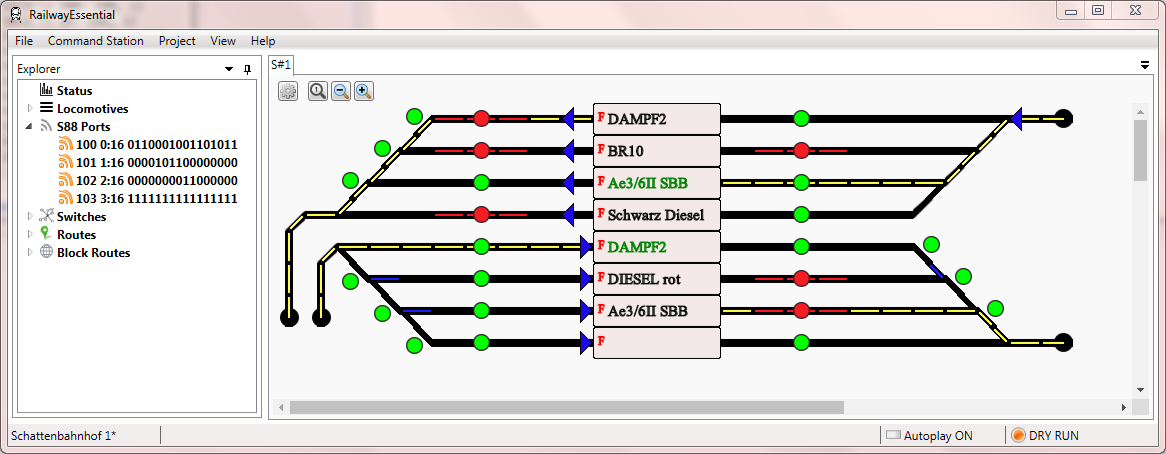
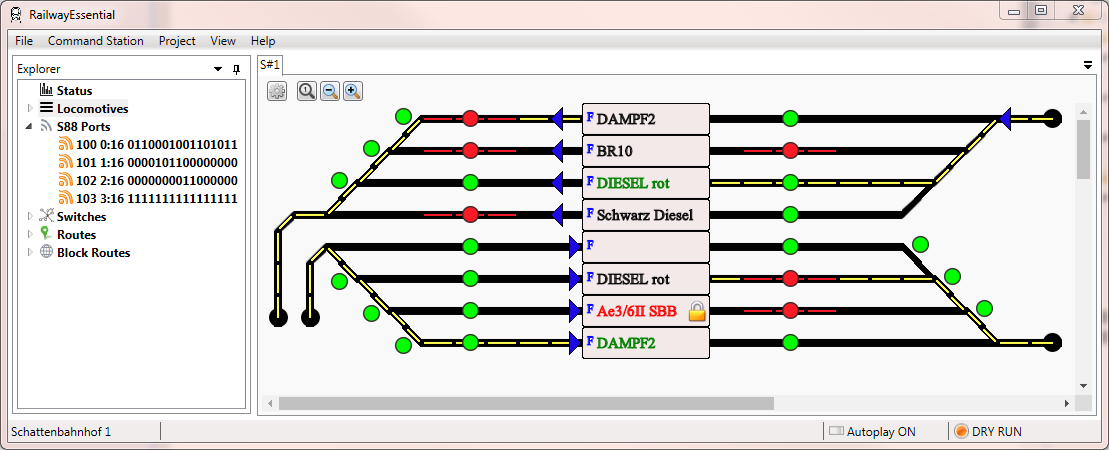
provide lock/unlock of locomotives which are not routed during autoroute

Changed region(s): [[0.0, 0.0, 1.0, 0.9956]]

diff --git a/RailwayEssentialWeb/Resources/Webeditor/js/railwayessential.js b/RailwayEssentialWeb/Resources/Webeditor/js/railwayessential.js
@@ -22,7 +22,6 @@
  * SOFTWARE.
  */
 var TESTDATA = false;
-
 var isEdit = false;
 
 const ModeAddMove = 0;
@@ -84,6 +83,26 @@ function changeLocnameMarkerPreview(col, row, locname) {
     } catch (ex) { }
 }
 
+function changeLocnameMarkerLock(col, row, lock) {
+    try {
+        var id = getIdOfLocanameLbl(col, row);
+        var el = $('#' + id)[0];
+        if (lock) {
+            el.setAttribute('stroke', 'red');
+            el.setAttribute('fill', 'red');
+            //    el.setAttribute('style', 'font-style: italic; text-decoration: line-through;');			
+            var img = el.parentElement.querySelectorAll('image')[1];
+            img.setAttributeNS(null, 'visibility', 'visible');
+        } else {
+            //    el.setAttribute('stroke', 'black');
+            //    el.setAttribute('fill', 'black');
+            //    el.setAttribute('style', '');
+            var img = el.parentElement.querySelectorAll('image')[1];
+            img.setAttributeNS(null, 'visibility', 'hidden');
+        }
+    } catch (ex) { }
+}
+
 function changeItemIdMarker(col, row, idname) {
     try {
         var id = getIdOfItemNameLbl(col, row);
@@ -107,8 +126,8 @@ function appendBlockText(col, row, esvg, themeId) {
         el.setAttribute('x', 5);
         el.setAttribute('y', 18);
         el.setAttribute('font-size', '12px');
-        el.setAttribute('stroke', 'red');
-        el.setAttribute('fill', 'red');
+        el.setAttribute('stroke', 'blue');
+        el.setAttribute('fill', 'blue');
         el.innerHTML = '.';
         esvg.append(el);
         changeDirectionMarker(col, row, 2);
@@ -121,6 +140,15 @@ function appendBlockText(col, row, esvg, themeId) {
         el.setAttribute('stroke', 'black');
         el.setAttribute('fill', 'black');
         el.innerHTML = '.';
+        esvg.append(el);
+
+        el = document.createElementNS('http://www.w3.org/2000/svg', 'image');
+        el.setAttributeNS(null, 'height', '22');
+        el.setAttributeNS(null, 'width', '22');
+        el.setAttributeNS('http://www.w3.org/1999/xlink', 'href', 'images/lock.png');
+        el.setAttributeNS(null, 'x', '104');
+        el.setAttributeNS(null, 'y', '5');
+        el.setAttributeNS(null, 'visibility', 'hidden');
         esvg.append(el);
     }
 
@@ -155,6 +183,11 @@ function appendBlockText(col, row, esvg, themeId) {
     changeLocnameMarker(col, row, ' ');
     changeItemIdMarker(col, row, ' ');
     //}
+
+    if (TESTDATA) {
+        changeLocnameMarker(col, row, 'BR 10');
+        changeLocnameMarkerLock(col, row, true);
+    }
 }
 
 function preloadSvgsLoaded() {
@@ -457,38 +490,38 @@ function simulateClick(col, row, themeid, symbol, orientation, response) {
         var svgChild = newChild.find("svg");
         appendBlockText(col, row, svgChild, themeid);
 
-        newChild.mousedown(function(evt) {
+        newChild.mousedown(function (evt) {
 
             if (isEdit) {
                 switch (evt.which) {
-                case 2: // middle button
-                    break;
-                case 3: // right button
-                    rotateElement(col, row, $(this));
-                    return;
+                    case 2: // middle button
+                        break;
+                    case 3: // right button
+                        rotateElement(col, row, $(this));
+                        return;
                 }
             }
 
             switch (editMode) {
-            case ModeRotate:
-                if (isEdit) {
-                    rotateElement(col, row, $(this));
-                }
-                break;
+                case ModeRotate:
+                    if (isEdit) {
+                        rotateElement(col, row, $(this));
+                    }
+                    break;
 
-            case ModeRemove:
-                if (isEdit) {
-                    $(this).remove();
-                    resetSelection();
-                    rebuildTable();
-                }
-                break;
+                case ModeRemove:
+                    if (isEdit) {
+                        $(this).remove();
+                        resetSelection();
+                        rebuildTable();
+                    }
+                    break;
 
-            case ModeObject:
-                if (isEdit) {
-                    selectElement(col, row, $(this));
-                }
-                break;
+                case ModeObject:
+                    if (isEdit) {
+                        selectElement(col, row, $(this));
+                    }
+                    break;
             }
         });
 
@@ -654,11 +687,11 @@ $(document).ready(function (e) {
 
                         if (isEdit) {
                             switch (evt.which) {
-                            case 2: // middle button
-                                break;
-                            case 3: // right button
-                                rotateElement(col, row, $(this));
-                                return;
+                                case 2: // middle button
+                                    break;
+                                case 3: // right button
+                                    rotateElement(col, row, $(this));
+                                    return;
                             }
                         }
 
@@ -738,11 +771,11 @@ $(document).ready(function (e) {
 
                     if (isEdit) {
                         switch (evt.which) {
-                        case 2: // middle button
-                            break;
-                        case 3: // right button
-                            rotateElement(col, row, $(this));
-                            return;
+                            case 2: // middle button
+                                break;
+                            case 3: // right button
+                                rotateElement(col, row, $(this));
+                                return;
                         }
                     }
 

diff --git a/RailwayEssentialMdi/Entities/TrackEntity.Edit.cs b/RailwayEssentialMdi/Entities/TrackEntity.Edit.cs
@@ -1015,6 +1015,7 @@ namespace RailwayEssentialMdi.Entities
                 {
                     Viewer.ExecuteJs($"changeLocnameMarker({x}, {y}, ' ');");
                     Viewer.ExecuteJs($"changeLocnameMarkerPreview({x}, {y}, ' ');");
+                    Viewer.ExecuteJs($"changeLocnameMarkerLock({x}, {y}, false);");
                     return;
                 }
 
@@ -1024,18 +1025,31 @@ namespace RailwayEssentialMdi.Entities
                 if (objectId == -1 || objectIdPreview == -1)
                 {
 
-                    if(objectId == -1)
+                    if (objectId == -1)
+                    {
                         Viewer.ExecuteJs($"changeLocnameMarker({x}, {y}, ' ');");
+                        Viewer.ExecuteJs($"changeLocnameMarkerLock({x}, {y}, false);");
+                    }
 
-                    if(objectIdPreview == -1)
+                    if (objectIdPreview == -1)
+                    {
                         Viewer.ExecuteJs($"changeLocnameMarkerPreview({x}, {y}, ' ');");
+                        Viewer.ExecuteJs($"changeLocnameMarkerLock({x}, {y}, false);");
+                    }
                 }
 
                 if (objectId != -1)
                 {
                     var loc = dataProvider.GetObjectBy(objectId) as Locomotive;
                     if (loc != null)
+                    {
                         Viewer?.ExecuteJs($"changeLocnameMarker({x}, {y}, '{loc.Name}');");
+
+                        if(loc.Locked)
+                            Viewer.ExecuteJs($"changeLocnameMarkerLock({x}, {y}, true);");
+                        else
+                            Viewer.ExecuteJs($"changeLocnameMarkerLock({x}, {y}, false);");
+                    }
                 }
 
 

diff --git a/RailwayEssentialMdi/Autoplay/Autoplay.Check.cs b/RailwayEssentialMdi/Autoplay/Autoplay.Check.cs
@@ -204,6 +204,16 @@ namespace RailwayEssentialMdi.Autoplay
                     var locObjectIdStart = GetLocObjectIdOfRoute(r);
                     var locObjectIdEnd = GetLocObjectIdOfRoute(r, true);
 
+                    // check if loc is locked, if yes just check next route and ignore 'r'
+                    if (locObjectIdStart != -1)
+                    {
+                        if (Ctx.Dispatcher.GetDataProvider().GetObjectBy(locObjectIdStart) is Locomotive locObj)
+                        {
+                            if (locObj.Locked)
+                                continue;
+                        }
+                    }
+
                     if (locObjectIdStart != -1 && locObjectIdEnd == -1 && !r.IsBusy)
                     {
                         if (Ctx.Dispatcher.GetDataProvider().GetObjectBy(locObjectIdStart) is Locomotive locObj)

diff --git a/RailwayEssentialMdi/ViewModels/RailwayEssentialModel.cs b/RailwayEssentialMdi/ViewModels/RailwayEssentialModel.cs
@@ -1147,22 +1147,19 @@ namespace RailwayEssentialMdi.ViewModels
 
         public void SetLockToLocomotive(Locomotive locItem, bool state)
         {
-            LogError("TODO set lock/unlock");
-
             locItem.Locked = state;
-
-            // TODO
+            Project.Save();
+            SetDirty(false);
+            Thread.Sleep(125);
+            TrackEntity.UpdateAllVisualBlocks();
         }
 
         public void DryRun(object p)
         {
             IsDryRun = true;
-
             var weaveFilepath = Path.Combine(Project.Dirpath, Project.Track.Weave);
             _dispatcher.InitializeWeaving(_trackEntity.Track, weaveFilepath);
-
             Thread.Sleep(125);
-
             TriggerUpdateUi();
         }
 

diff --git a/README.md b/README.md
@@ -25,7 +25,7 @@ RailwayEssential is -- currently -- designed for supporting [ESU's ECoS 50210/50
 * [VisualStudio 2017](https://www.visualstudio.com/vs/whatsnew/) - The IDE used for
 * [.Net 4.6](https://www.microsoft.com/en-us/download/details.aspx?id=53344) - Microsoft .NET Framework
 
-In case you like to build the software on you on. Just load the Solution file 'RailwayEssential.sln', set 'RailwayEssentialMdi' as startup poject, change the Achitecture to 'x86' or 'x64' and press 'F5'. Enjoy.
+In case you like to build the software on your own. Just load the Solution file 'RailwayEssential.sln', set 'RailwayEssentialMdi' as startup poject, change the Achitecture to 'x86' or 'x64' and press 'F5'. Enjoy.
 
 ## Authors
 
